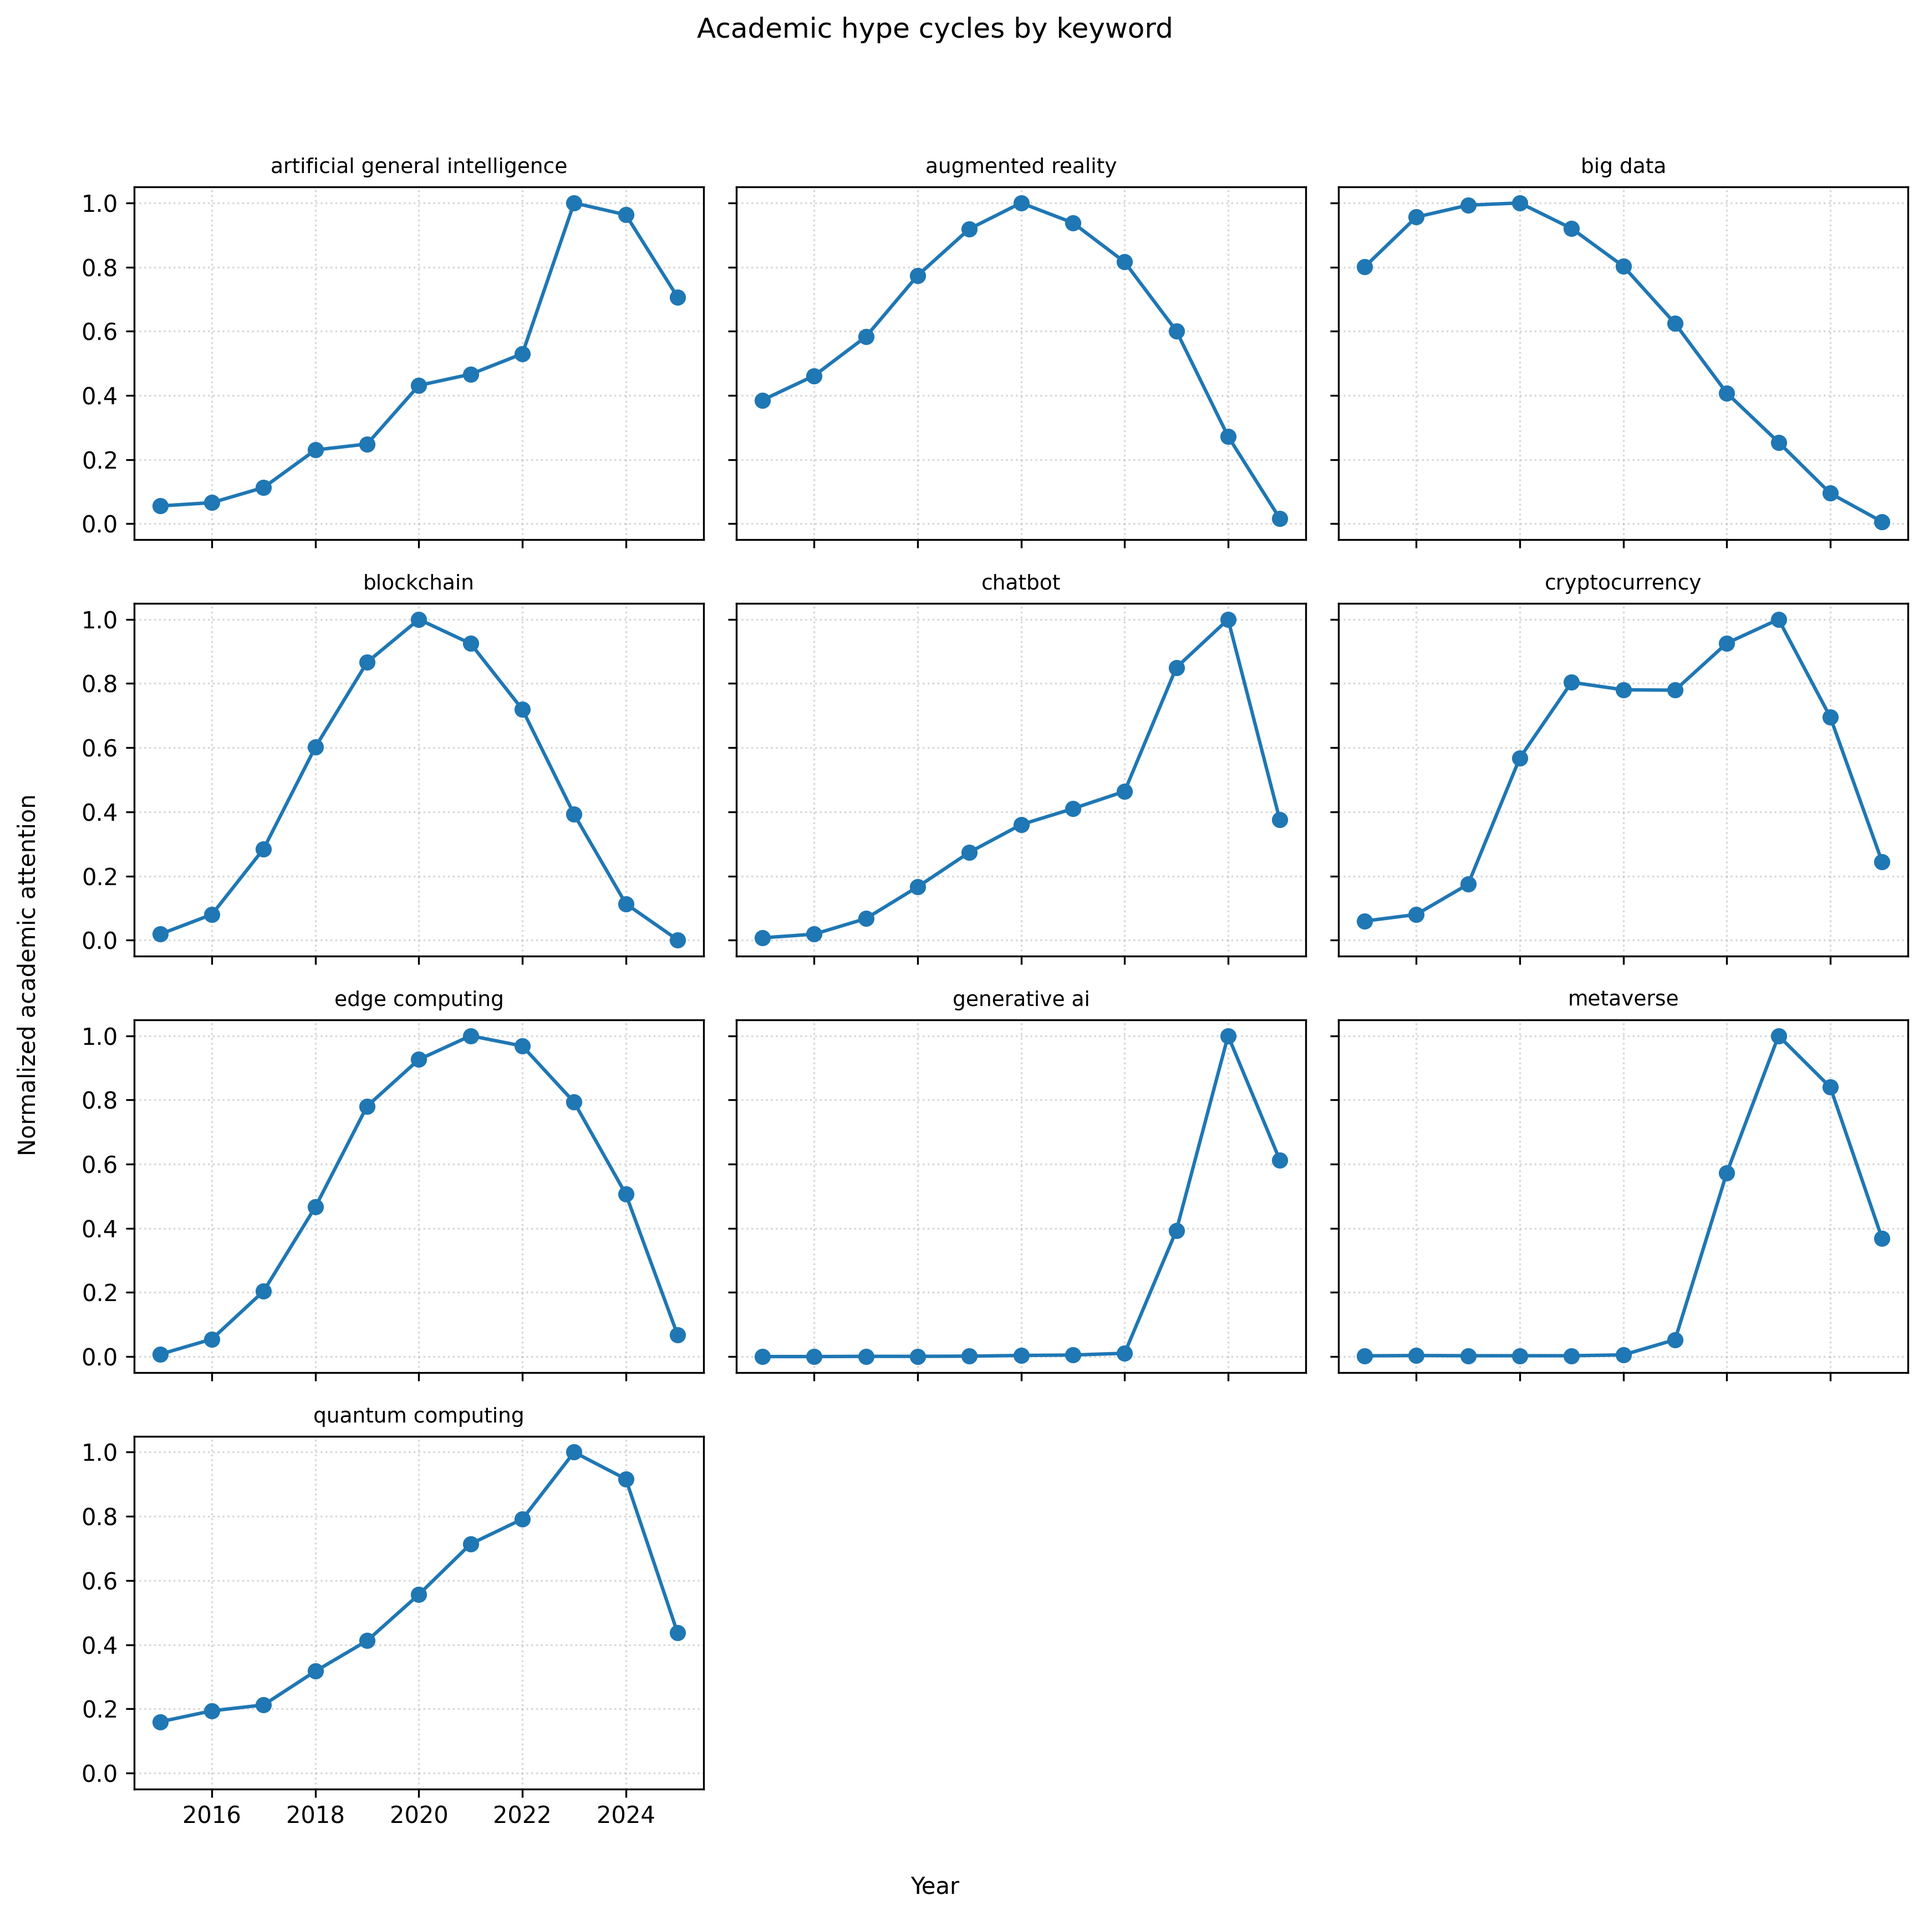
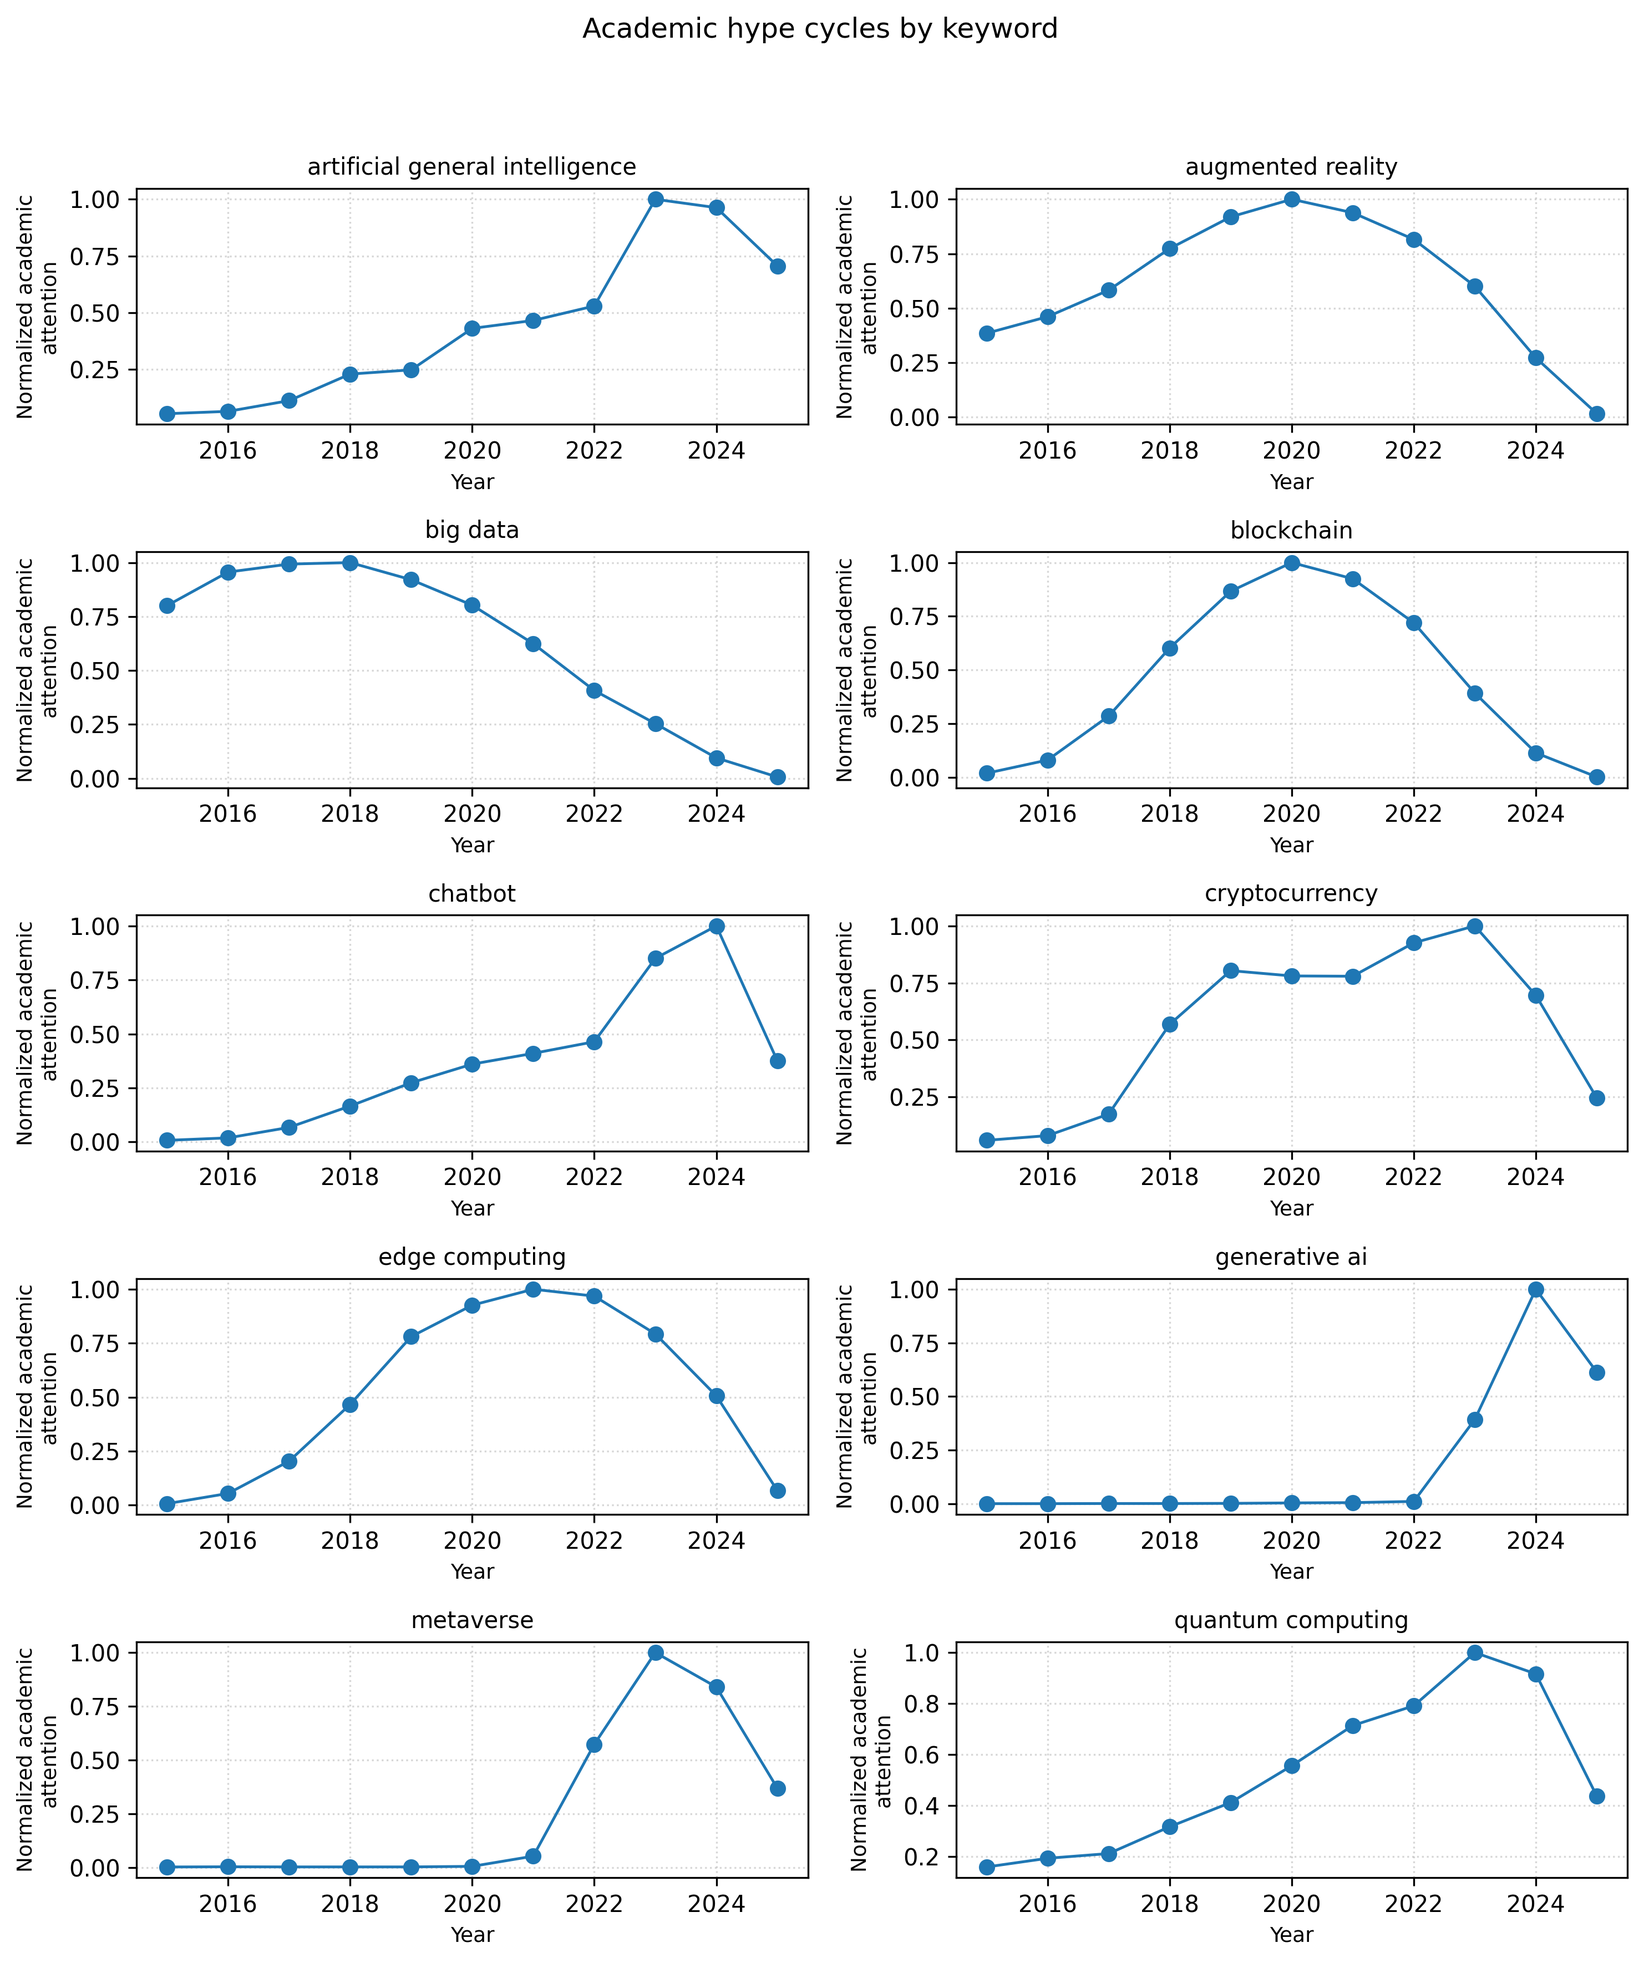
update scripts

diff --git a/code/RQ1.py b/code/RQ1.py
@@ -70,35 +70,38 @@ def plot_rq1_small_multiples(df: pd.DataFrame, out_path: Path) -> None:
     keywords = sorted(df_sorted["keyword"].unique())
     n_keywords = len(keywords)
 
-    # decide grid size
-    n_cols = 3
+    # Match RQ2 layout: 2 columns, many rows
+    n_cols = 2
     n_rows = (n_keywords + n_cols - 1) // n_cols
 
-    fig, axes = plt.subplots(
-        n_rows,
-        n_cols,
-        figsize=(4 * n_cols, 3 * n_rows),
-        sharex=True,
-        sharey=True,
-    )
+    # Match RQ2 figsize style: wide, readable in ACM PDF
+    fig, axes = plt.subplots(n_rows, n_cols, figsize=(10, 12))
     axes = axes.flatten()
 
     for ax, keyword in zip(axes, keywords):
         sub = df_sorted[df_sorted["keyword"] == keyword]
-        ax.plot(sub["year"], sub["academic_norm_plot"], marker="o", linestyle="-")
-        ax.set_title(keyword, fontsize=9)
+
+        ax.plot(
+            sub["year"],
+            sub["academic_norm_plot"],
+            marker="o",
+            linestyle="-",
+            linewidth=1.2
+        )
+        ax.set_title(keyword, fontsize=10)
         ax.grid(True, linestyle=":", alpha=0.5)
 
-    # hide any leftover empty axes
+        ax.set_xlabel("Year", fontsize=9)
+        ax.set_ylabel("Normalized academic\nattention", fontsize=9)
+
+    # Hide unused axes if count is odd
     for ax in axes[n_keywords:]:
         ax.set_visible(False)
 
-    fig.suptitle("Academic hype cycles by keyword", y=0.98)
-    fig.text(0.5, 0.04, "Year", ha="center")
-    fig.text(0.04, 0.5, "Normalized academic attention", va="center", rotation="vertical")
+    fig.suptitle("Academic hype cycles by keyword", fontsize=12, y=0.98)
 
-    plt.tight_layout(rect=[0.06, 0.06, 1, 0.95])
-    plt.savefig(out_path, dpi=300, bbox_inches="tight")
+    plt.tight_layout(rect=[0, 0, 1, 0.95])
+    fig.savefig(out_path, dpi=300, bbox_inches="tight")
     plt.close()
     print(f"Saved small-multiples RQ1 plot to: {out_path}")
 
